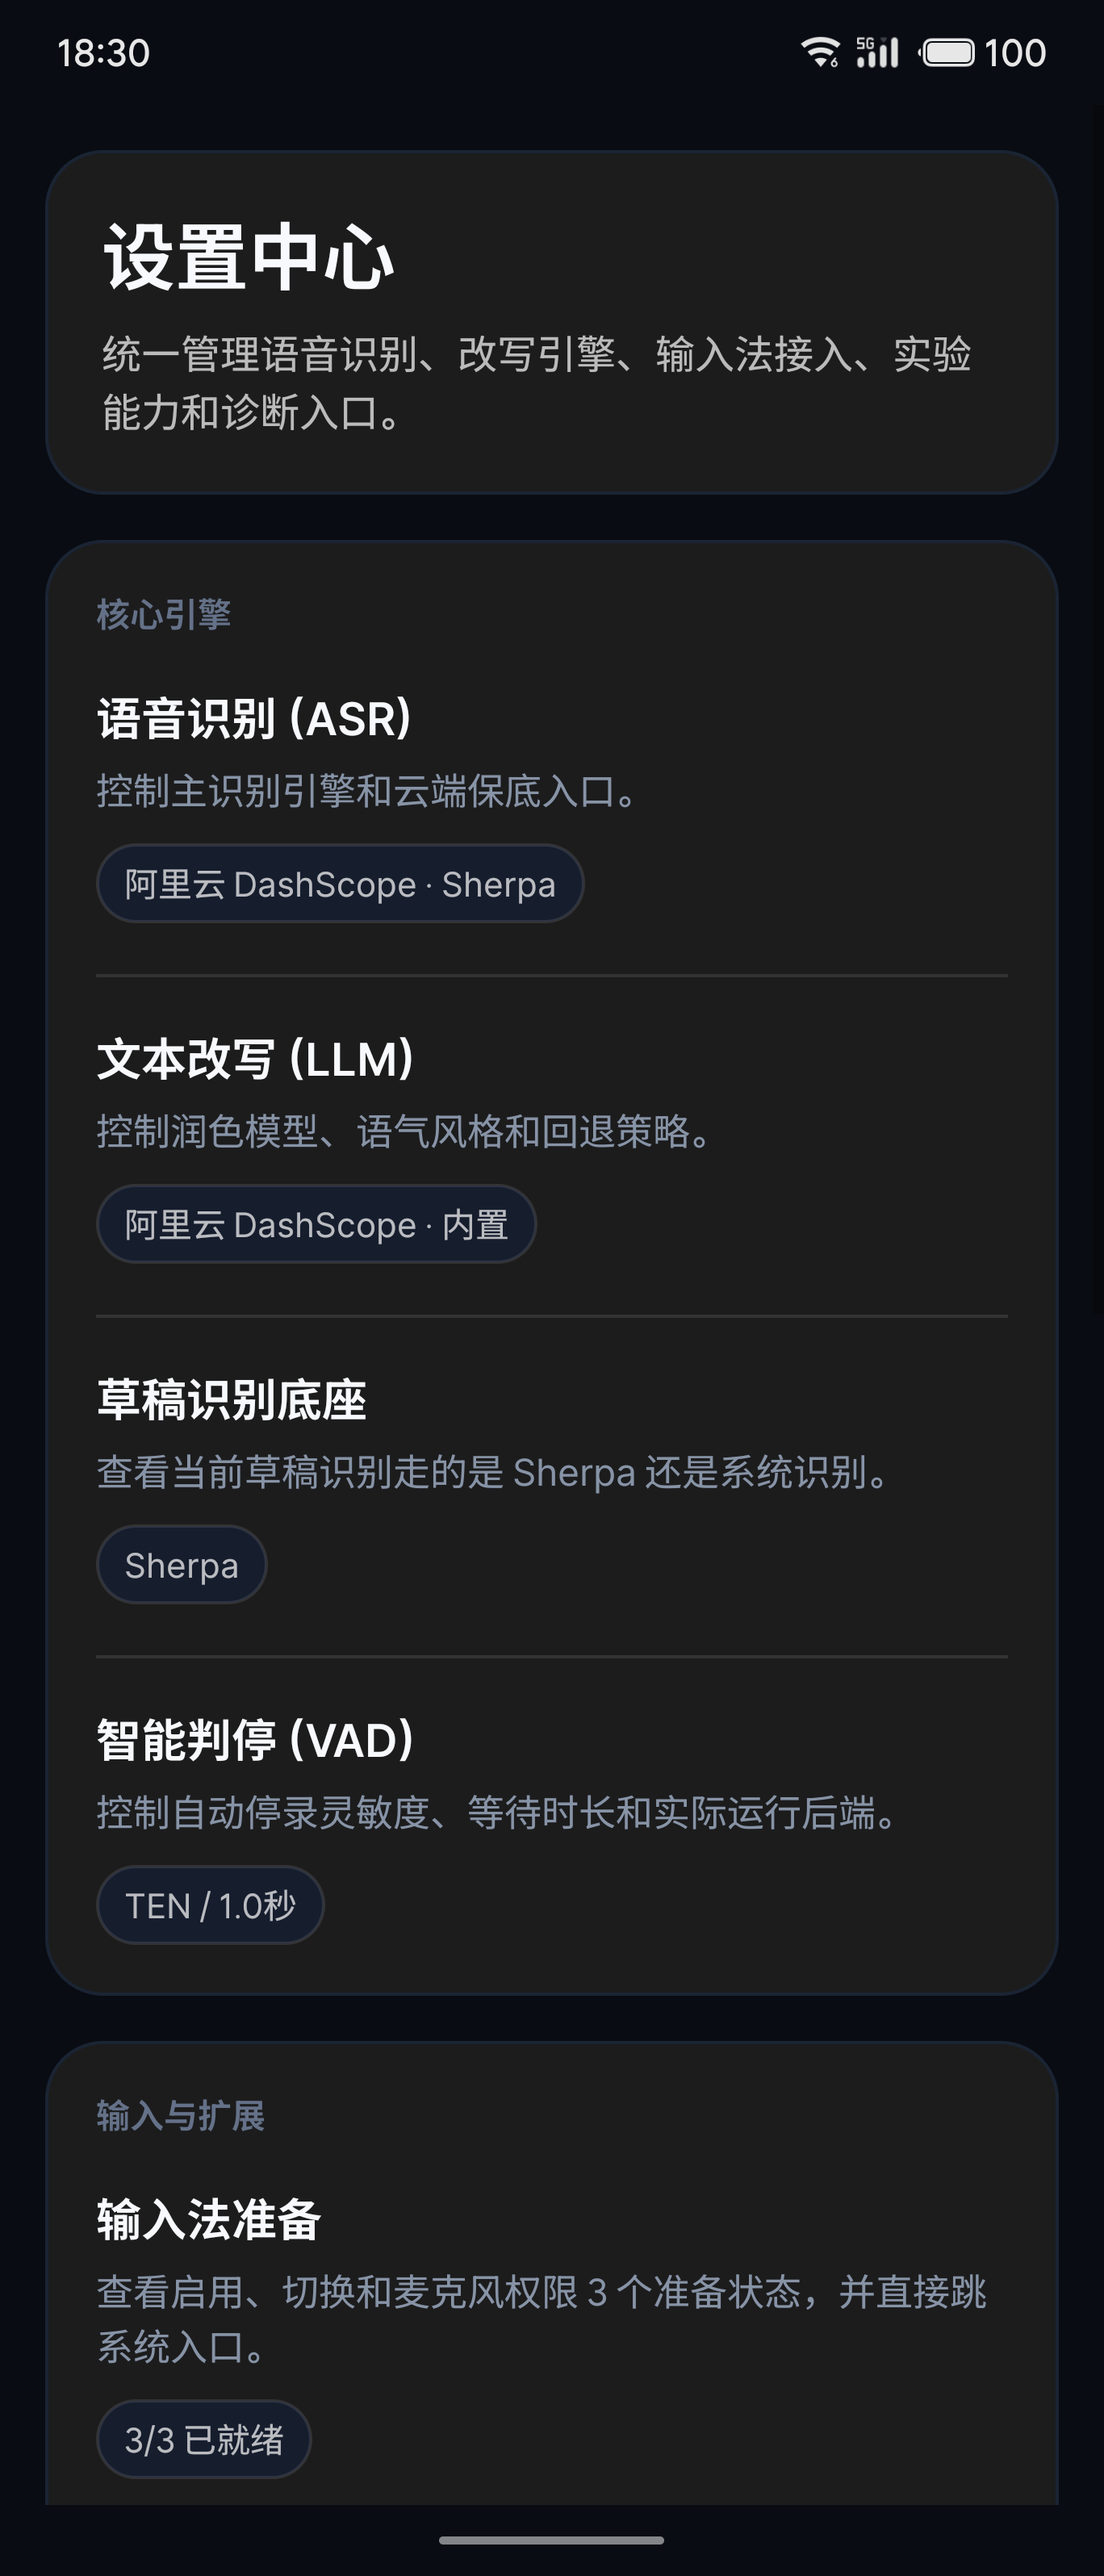
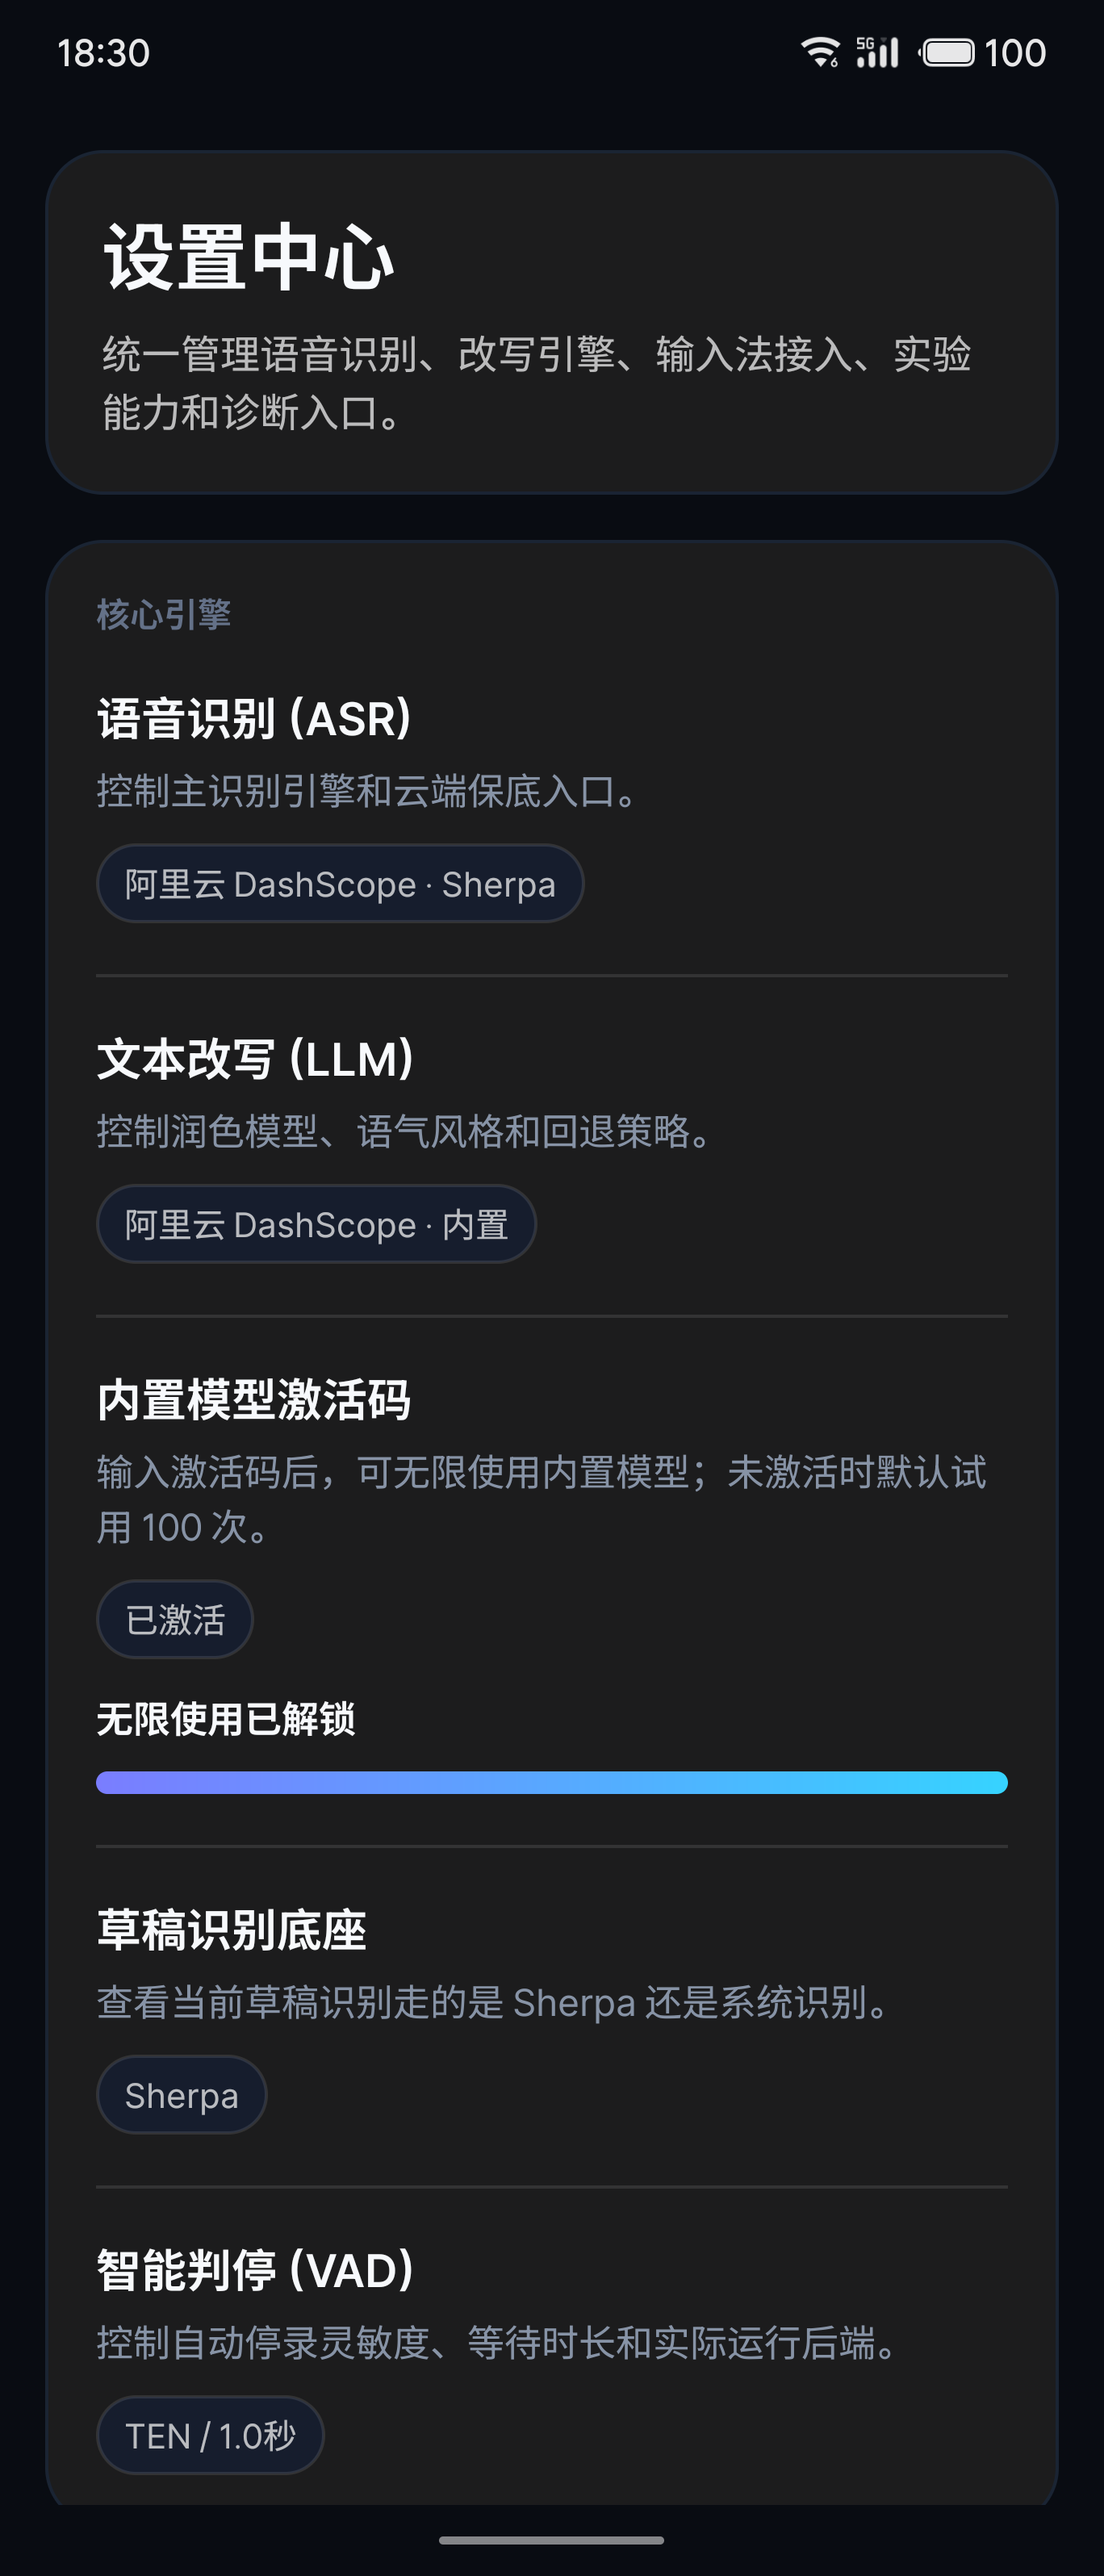
docs: refresh readme screenshots

Changed region(s): [[0.0921, 0.5273, 0.9211, 0.9615], [0.5833, 0.7754, 0.7675, 0.8064], [0.4912, 0.7754, 0.5526, 0.8064]]

diff --git a/docs/系统架构与进度.md b/docs/系统架构与进度.md
@@ -114,6 +114,91 @@ Compose 第一版外壳现在已经可以开工，但必须坚持“先接管画
 
 ## 最新进度
 
+### 2026-04-09 09:31:48 结果记录（README 输入法实战截图已替换为最新版本）
+
+本轮完成：
+
+1. 已用用户提供的新截图覆盖仓库素材：
+   - 目标文件：`docs/readme-images/输入法实战.png`
+2. README 文本本身不需要改动：
+   - 原链接路径保持不变；
+   - GitHub README 刷新后会自动显示新图。
+
+当前判断：
+
+1. 当前 README 的两张截图替换都还在本地工作区：
+   - `设置中心.png`
+   - `输入法实战.png`
+2. 这轮仍然只是素材更新，不涉及代码逻辑。
+
+接下来 1 到 3 个动作：
+
+1. 如果你确认这两张图都满意，我下一步就把它们一起提交并推 GitHub；
+2. 如果你还要继续换“输入法主页”那张图，我也可以按同样方式继续替换。
+
+### 2026-04-09 09:30:42 进行中记录（替换 README 的输入法实战截图）
+
+当前阶段目标：
+
+- 将 README “界面示意”中的“输入法实战”截图替换为用户提供的最新版本；
+- 保持 README 图片链接和文件名不变，减少无关改动；
+- 只更新素材，不改 README 文本结构。
+
+当前判断：
+
+1. 当前 README 已引用 `docs/readme-images/输入法实战.png`；
+2. 用户这次提供的新图位于临时目录，最新文件为：
+   - `5d081e2ce766710f3c8b27f14f5958ff.png`
+3. 只要直接覆盖目标图片文件，README 展示就会自动切到新图。
+
+本轮计划：
+
+1. 用用户提供的新图覆盖 `docs/readme-images/输入法实战.png`；
+2. 检查文件状态；
+3. 完成后补结果记录。
+
+### 2026-04-09 09:29:35 结果记录（README 设置中心截图已替换为最新版本）
+
+本轮完成：
+
+1. 已用用户提供的新截图覆盖仓库素材：
+   - 目标文件：`docs/readme-images/设置中心.png`
+2. README 本身不需要改动：
+   - 因为原链接仍然指向同一路径；
+   - GitHub README 刷新后会直接显示新图。
+
+当前判断：
+
+1. 这轮是纯素材替换，不涉及代码逻辑；
+2. 当前工作区只新增了两类改动：
+   - 新的“设置中心”截图；
+   - 这条进度记录本身。
+
+接下来 1 到 3 个动作：
+
+1. 如果你满意，我下一步就把这次截图替换一起提交并推 GitHub；
+2. 如果你还想继续换别的 README 截图，我可以按同样方式继续替换。
+
+### 2026-04-09 09:27:18 进行中记录（替换 README 的设置中心截图）
+
+当前阶段目标：
+
+- 将 README “界面示意”中的“设置中心”截图替换为用户提供的最新版本；
+- 保持 README 图片链接和文件名不变，降低改动范围；
+- 只更新素材，不改 README 结构和说明文案。
+
+当前判断：
+
+1. 当前 README 已经引用 `docs/readme-images/设置中心.png`；
+2. 只要直接覆盖这张图片，GitHub README 展示就会自动更新；
+3. 这轮不需要改代码，也不需要调整 README 表格结构。
+
+本轮计划：
+
+1. 用用户给的新图覆盖仓库里的 `docs/readme-images/设置中心.png`；
+2. 检查文件状态；
+3. 完成后补结果记录。
+
 ### 2026-04-09 09:21:33 结果记录（仓库 APK 已撤回，改为保留本地包并手动传 Release）
 
 本轮完成：
